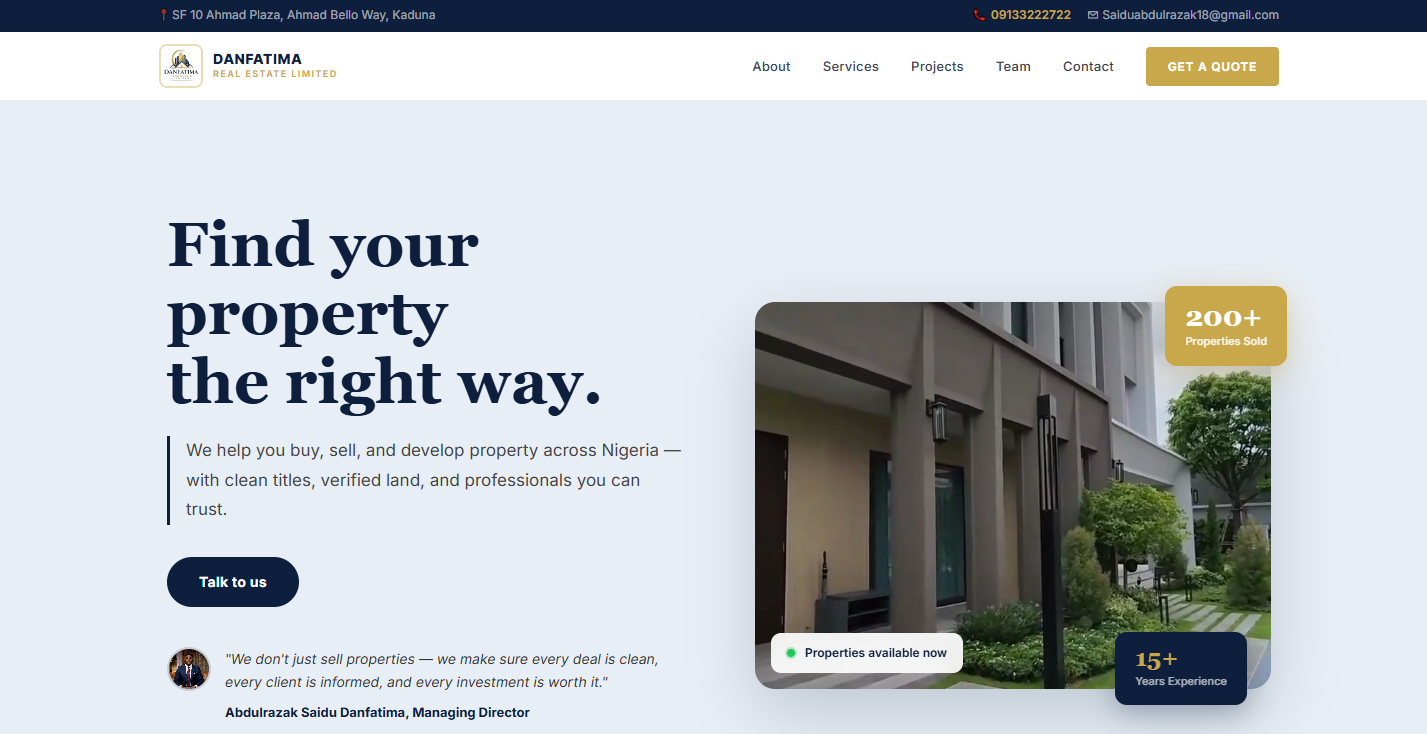
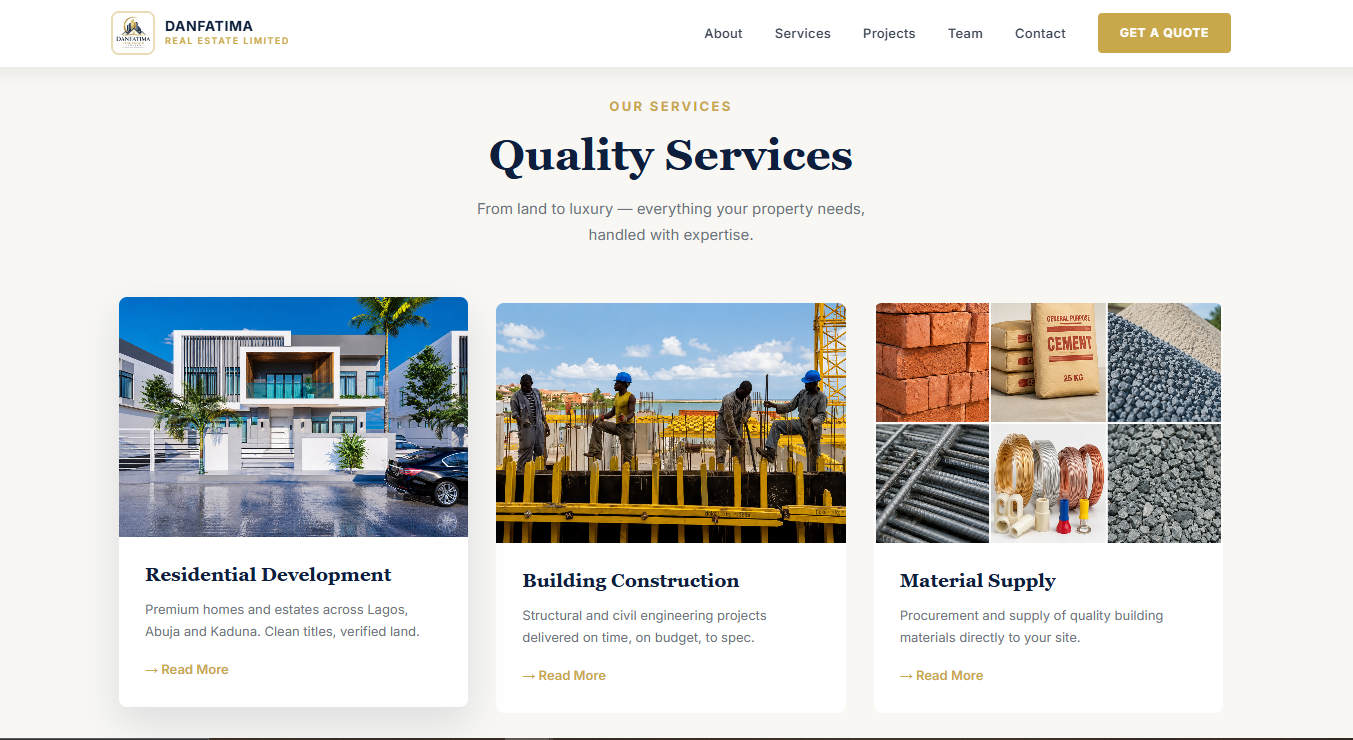
add new project list

diff --git a/src/components/portfolio/portfolio.jsx b/src/components/portfolio/portfolio.jsx
@@ -4,7 +4,7 @@ import "./portfolio.css";
 import proj1 from "../../assets/proj1.jpg";
 import proj2 from "../../assets/proj2.png";
 import proj3 from "../../assets/proj3.png";
-import proj4 from "../../assets/fizido.png";
+import proj4 from "../../assets/proj4.png";
 import proj5 from "../../assets/proj5.png";
 import proj6 from "../../assets/proj6.png";
 
